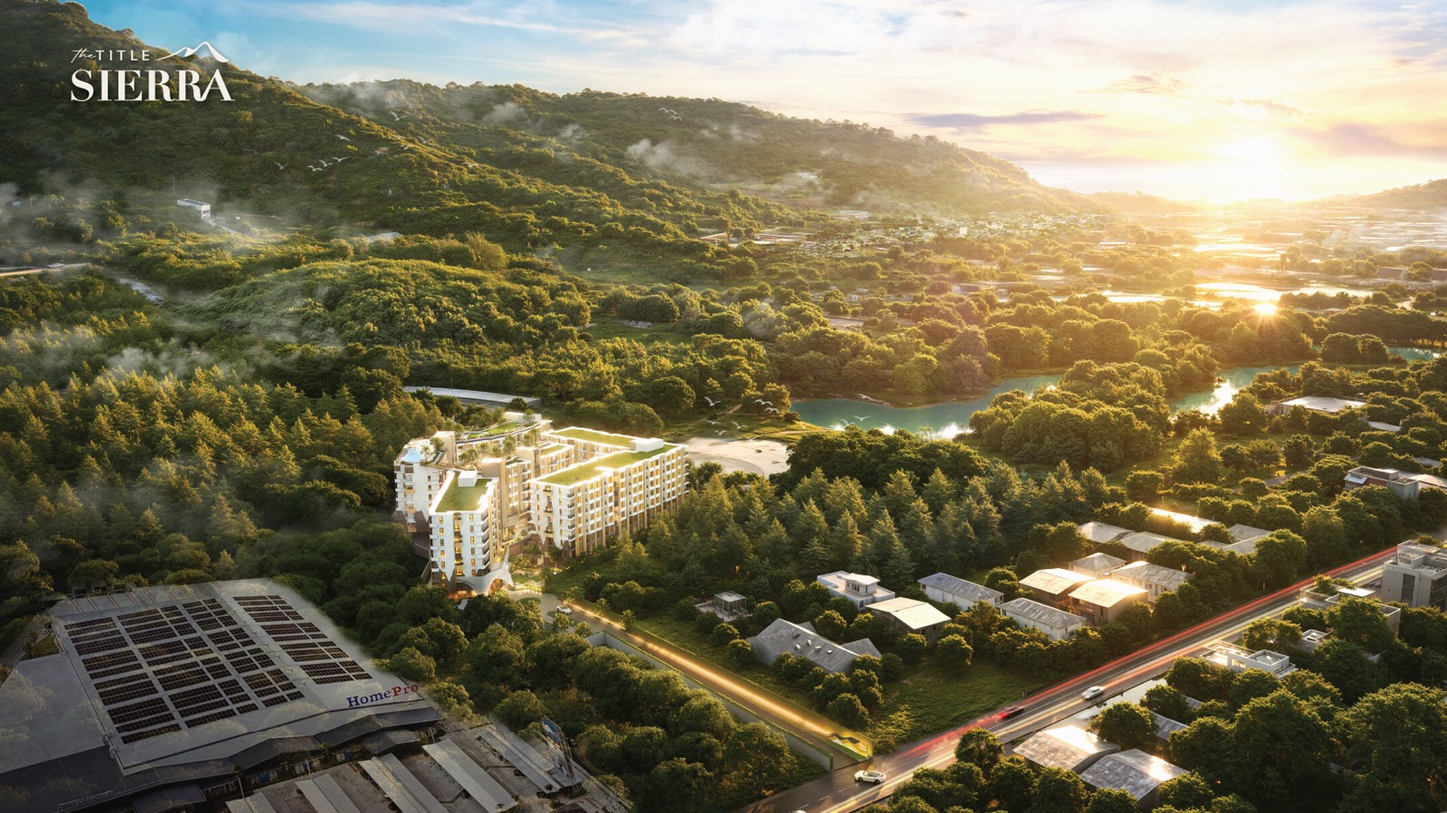
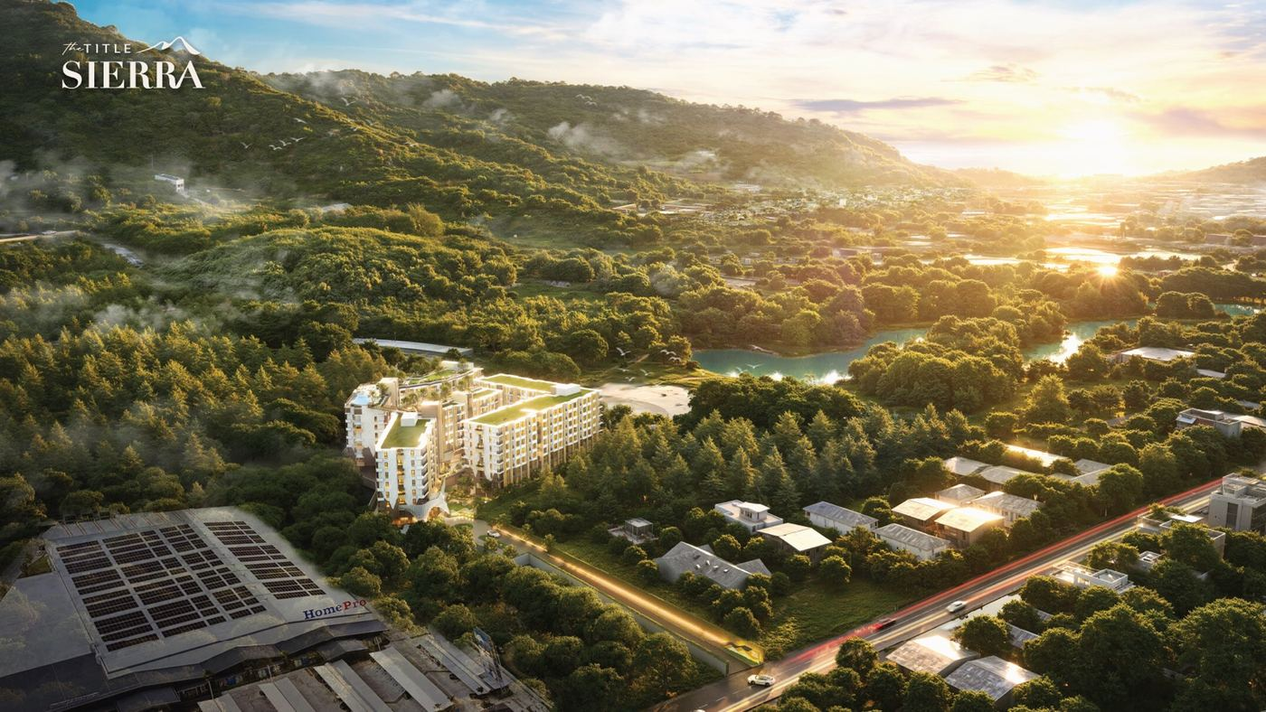
Каталог тянул 9 МБ фотографий — теперь около мегабайта
Страница покупки грузила 23 снимка по 300-500 КБ в полном разрешении, хотя
карточка показывает 290 пикселей. На телефоне это выглядело как зависшая
страница.

Снимки пережаты до 1400px (было до 1600) — 9 МБ стали 4.7 МБ без потери вида.
Для карточек сделаны отдельные превью 620px по 46 КБ: каталог грузит их,
полный снимок открывается только в окне объекта. Добавлена отложенная
загрузка — то, что ниже экрана, не грузится сразу.

Оригиналы сохранены в ~/plp_backups.

Claude-Session: https://claude.ai/code/session_0174bDekhXGd7Ri82V1QKYTm

Changed region(s): [[0.43, 0.5787, 0.4607, 0.6091]]

diff --git a/add-property.html b/add-property.html
@@ -1865,9 +1865,16 @@ function statusBadge(s){return '<span class="stbadge st-'+s+'">'+t('st.'+s)+'</s
 /* 30.08 канон №38: «Готов» берём из данных (stage='Ready'), а НЕ считаем из даты сдачи.
    Расчёт по дате помечал готовыми объекты, которые по данным ещё строятся. */
 function propStatus(p){return (p.status==='available'&&p.ready===true)?'ready':p.status;}
-function thumbDiv(p,cls){return '<div class="thumb '+(p.grad||'g1')+' '+(cls||'')+'">'+t('ph.object')+picPhoto(p).replace('pic-photo','thumb-photo')+'</div>';}
+function thumbDiv(p,cls){return '<div class="thumb '+(p.grad||'g1')+' '+(cls||'')+'">'+t('ph.object')+picPhoto(p,false).replace('pic-photo','thumb-photo')+'</div>';}
 /* реальное фото объекта поверх градиента; onerror → откат на градиент */
-function picPhoto(p){return p&&p.img?'<img class="pic-photo" src="'+p.img+'" alt="'+((p.title||'').replace(/"/g,'&quot;'))+'" onerror="this.remove()">':'';}
+/* В карточке грузим лёгкое превью (~46 КБ), полный снимок — только на странице
+   объекта и в окне. Раньше каталог тянул 9 МБ и открывался вечность. */
+function picPhoto(p,full){
+  if(!p||!p.img) return '';
+  var src = full ? p.img : p.img.replace('img/','img/thumb/');
+  return '<img class="pic-photo" src="'+src+'" loading="lazy" decoding="async" alt="'+
+    ((p.title||'').replace(/"/g,'&quot;'))+'" onerror="this.remove()">';
+}
 
 /* ===== SALE RENDER ===== */
 /* Цена в карточке — минимальная из прайса застройщика на дату сверки.
@@ -2251,7 +2258,7 @@ function openProp(pid){
   var p=PL.byId[pid];if(!p||p.soon)return;currentPid=pid;
   var img=document.getElementById('pmImg');
   img.className='pm-img '+(p.grad||'g1');
-  img.innerHTML=picPhoto(p).replace('pic-photo','pm-photo')+'<span>'+t('ph.object')+'</span><div class="pm-badges"><span class="pm-tag">'+loc(p.loc)+'</span><span class="pm-roi">'+(p.funnel==='sale'?(p.roi!=null?('ROI '+roiRange(p)):t('u.calc')):t('book.title'))+'</span></div>';
+  img.innerHTML=picPhoto(p,true).replace('pic-photo','pm-photo')+'<span>'+t('ph.object')+'</span><div class="pm-badges"><span class="pm-tag">'+loc(p.loc)+'</span><span class="pm-roi">'+(p.funnel==='sale'?(p.roi!=null?('ROI '+roiRange(p)):t('u.calc')):t('book.title'))+'</span></div>';
   document.getElementById('pmTitle').textContent=p.title;
   document.getElementById('pmDesc').textContent=loc(p.desc);
   var _pid=document.getElementById('pmPid');

diff --git a/buy.html b/buy.html
@@ -1760,9 +1760,16 @@ function statusBadge(s){return '<span class="stbadge st-'+s+'">'+t('st.'+s)+'</s
 /* 30.08 канон №38: «Готов» берём из данных (stage='Ready'), а НЕ считаем из даты сдачи.
    Расчёт по дате помечал готовыми объекты, которые по данным ещё строятся. */
 function propStatus(p){return (p.status==='available'&&p.ready===true)?'ready':p.status;}
-function thumbDiv(p,cls){return '<div class="thumb '+(p.grad||'g1')+' '+(cls||'')+'">'+t('ph.object')+picPhoto(p).replace('pic-photo','thumb-photo')+'</div>';}
+function thumbDiv(p,cls){return '<div class="thumb '+(p.grad||'g1')+' '+(cls||'')+'">'+t('ph.object')+picPhoto(p,false).replace('pic-photo','thumb-photo')+'</div>';}
 /* реальное фото объекта поверх градиента; onerror → откат на градиент */
-function picPhoto(p){return p&&p.img?'<img class="pic-photo" src="'+p.img+'" alt="'+((p.title||'').replace(/"/g,'&quot;'))+'" onerror="this.remove()">':'';}
+/* В карточке грузим лёгкое превью (~46 КБ), полный снимок — только на странице
+   объекта и в окне. Раньше каталог тянул 9 МБ и открывался вечность. */
+function picPhoto(p,full){
+  if(!p||!p.img) return '';
+  var src = full ? p.img : p.img.replace('img/','img/thumb/');
+  return '<img class="pic-photo" src="'+src+'" loading="lazy" decoding="async" alt="'+
+    ((p.title||'').replace(/"/g,'&quot;'))+'" onerror="this.remove()">';
+}
 
 /* ===== SALE RENDER ===== */
 /* Цена в карточке — минимальная из прайса застройщика на дату сверки.
@@ -2146,7 +2153,7 @@ function openProp(pid){
   var p=PL.byId[pid];if(!p||p.soon)return;currentPid=pid;
   var img=document.getElementById('pmImg');
   img.className='pm-img '+(p.grad||'g1');
-  img.innerHTML=picPhoto(p).replace('pic-photo','pm-photo')+'<span>'+t('ph.object')+'</span><div class="pm-badges"><span class="pm-tag">'+loc(p.loc)+'</span><span class="pm-roi">'+(p.funnel==='sale'?(p.roi!=null?('ROI '+roiRange(p)):t('u.calc')):t('book.title'))+'</span></div>';
+  img.innerHTML=picPhoto(p,true).replace('pic-photo','pm-photo')+'<span>'+t('ph.object')+'</span><div class="pm-badges"><span class="pm-tag">'+loc(p.loc)+'</span><span class="pm-roi">'+(p.funnel==='sale'?(p.roi!=null?('ROI '+roiRange(p)):t('u.calc')):t('book.title'))+'</span></div>';
   document.getElementById('pmTitle').textContent=p.title;
   document.getElementById('pmDesc').textContent=loc(p.desc);
   var _pid=document.getElementById('pmPid');

diff --git a/districts/bang-tao.html b/districts/bang-tao.html
@@ -1686,9 +1686,16 @@ function statusBadge(s){return '<span class="stbadge st-'+s+'">'+t('st.'+s)+'</s
 /* 30.08 канон №38: «Готов» берём из данных (stage='Ready'), а НЕ считаем из даты сдачи.
    Расчёт по дате помечал готовыми объекты, которые по данным ещё строятся. */
 function propStatus(p){return (p.status==='available'&&p.ready===true)?'ready':p.status;}
-function thumbDiv(p,cls){return '<div class="thumb '+(p.grad||'g1')+' '+(cls||'')+'">'+t('ph.object')+picPhoto(p).replace('pic-photo','thumb-photo')+'</div>';}
+function thumbDiv(p,cls){return '<div class="thumb '+(p.grad||'g1')+' '+(cls||'')+'">'+t('ph.object')+picPhoto(p,false).replace('pic-photo','thumb-photo')+'</div>';}
 /* реальное фото объекта поверх градиента; onerror → откат на градиент */
-function picPhoto(p){return p&&p.img?'<img class="pic-photo" src="'+p.img+'" alt="'+((p.title||'').replace(/"/g,'&quot;'))+'" onerror="this.remove()">':'';}
+/* В карточке грузим лёгкое превью (~46 КБ), полный снимок — только на странице
+   объекта и в окне. Раньше каталог тянул 9 МБ и открывался вечность. */
+function picPhoto(p,full){
+  if(!p||!p.img) return '';
+  var src = full ? p.img : p.img.replace('img/','img/thumb/');
+  return '<img class="pic-photo" src="'+src+'" loading="lazy" decoding="async" alt="'+
+    ((p.title||'').replace(/"/g,'&quot;'))+'" onerror="this.remove()">';
+}
 
 /* ===== SALE RENDER ===== */
 /* Цена в карточке — минимальная из прайса застройщика на дату сверки.
@@ -2072,7 +2079,7 @@ function openProp(pid){
   var p=PL.byId[pid];if(!p||p.soon)return;currentPid=pid;
   var img=document.getElementById('pmImg');
   img.className='pm-img '+(p.grad||'g1');
-  img.innerHTML=picPhoto(p).replace('pic-photo','pm-photo')+'<span>'+t('ph.object')+'</span><div class="pm-badges"><span class="pm-tag">'+loc(p.loc)+'</span><span class="pm-roi">'+(p.funnel==='sale'?(p.roi!=null?('ROI '+roiRange(p)):t('u.calc')):t('book.title'))+'</span></div>';
+  img.innerHTML=picPhoto(p,true).replace('pic-photo','pm-photo')+'<span>'+t('ph.object')+'</span><div class="pm-badges"><span class="pm-tag">'+loc(p.loc)+'</span><span class="pm-roi">'+(p.funnel==='sale'?(p.roi!=null?('ROI '+roiRange(p)):t('u.calc')):t('book.title'))+'</span></div>';
   document.getElementById('pmTitle').textContent=p.title;
   document.getElementById('pmDesc').textContent=loc(p.desc);
   var _pid=document.getElementById('pmPid');

diff --git a/districts/kamala.html b/districts/kamala.html
@@ -1686,9 +1686,16 @@ function statusBadge(s){return '<span class="stbadge st-'+s+'">'+t('st.'+s)+'</s
 /* 30.08 канон №38: «Готов» берём из данных (stage='Ready'), а НЕ считаем из даты сдачи.
    Расчёт по дате помечал готовыми объекты, которые по данным ещё строятся. */
 function propStatus(p){return (p.status==='available'&&p.ready===true)?'ready':p.status;}
-function thumbDiv(p,cls){return '<div class="thumb '+(p.grad||'g1')+' '+(cls||'')+'">'+t('ph.object')+picPhoto(p).replace('pic-photo','thumb-photo')+'</div>';}
+function thumbDiv(p,cls){return '<div class="thumb '+(p.grad||'g1')+' '+(cls||'')+'">'+t('ph.object')+picPhoto(p,false).replace('pic-photo','thumb-photo')+'</div>';}
 /* реальное фото объекта поверх градиента; onerror → откат на градиент */
-function picPhoto(p){return p&&p.img?'<img class="pic-photo" src="'+p.img+'" alt="'+((p.title||'').replace(/"/g,'&quot;'))+'" onerror="this.remove()">':'';}
+/* В карточке грузим лёгкое превью (~46 КБ), полный снимок — только на странице
+   объекта и в окне. Раньше каталог тянул 9 МБ и открывался вечность. */
+function picPhoto(p,full){
+  if(!p||!p.img) return '';
+  var src = full ? p.img : p.img.replace('img/','img/thumb/');
+  return '<img class="pic-photo" src="'+src+'" loading="lazy" decoding="async" alt="'+
+    ((p.title||'').replace(/"/g,'&quot;'))+'" onerror="this.remove()">';
+}
 
 /* ===== SALE RENDER ===== */
 /* Цена в карточке — минимальная из прайса застройщика на дату сверки.
@@ -2072,7 +2079,7 @@ function openProp(pid){
   var p=PL.byId[pid];if(!p||p.soon)return;currentPid=pid;
   var img=document.getElementById('pmImg');
   img.className='pm-img '+(p.grad||'g1');
-  img.innerHTML=picPhoto(p).replace('pic-photo','pm-photo')+'<span>'+t('ph.object')+'</span><div class="pm-badges"><span class="pm-tag">'+loc(p.loc)+'</span><span class="pm-roi">'+(p.funnel==='sale'?(p.roi!=null?('ROI '+roiRange(p)):t('u.calc')):t('book.title'))+'</span></div>';
+  img.innerHTML=picPhoto(p,true).replace('pic-photo','pm-photo')+'<span>'+t('ph.object')+'</span><div class="pm-badges"><span class="pm-tag">'+loc(p.loc)+'</span><span class="pm-roi">'+(p.funnel==='sale'?(p.roi!=null?('ROI '+roiRange(p)):t('u.calc')):t('book.title'))+'</span></div>';
   document.getElementById('pmTitle').textContent=p.title;
   document.getElementById('pmDesc').textContent=loc(p.desc);
   var _pid=document.getElementById('pmPid');

diff --git a/districts/kata.html b/districts/kata.html
@@ -1674,9 +1674,16 @@ function statusBadge(s){return '<span class="stbadge st-'+s+'">'+t('st.'+s)+'</s
 /* 30.08 канон №38: «Готов» берём из данных (stage='Ready'), а НЕ считаем из даты сдачи.
    Расчёт по дате помечал готовыми объекты, которые по данным ещё строятся. */
 function propStatus(p){return (p.status==='available'&&p.ready===true)?'ready':p.status;}
-function thumbDiv(p,cls){return '<div class="thumb '+(p.grad||'g1')+' '+(cls||'')+'">'+t('ph.object')+picPhoto(p).replace('pic-photo','thumb-photo')+'</div>';}
+function thumbDiv(p,cls){return '<div class="thumb '+(p.grad||'g1')+' '+(cls||'')+'">'+t('ph.object')+picPhoto(p,false).replace('pic-photo','thumb-photo')+'</div>';}
 /* реальное фото объекта поверх градиента; onerror → откат на градиент */
-function picPhoto(p){return p&&p.img?'<img class="pic-photo" src="'+p.img+'" alt="'+((p.title||'').replace(/"/g,'&quot;'))+'" onerror="this.remove()">':'';}
+/* В карточке грузим лёгкое превью (~46 КБ), полный снимок — только на странице
+   объекта и в окне. Раньше каталог тянул 9 МБ и открывался вечность. */
+function picPhoto(p,full){
+  if(!p||!p.img) return '';
+  var src = full ? p.img : p.img.replace('img/','img/thumb/');
+  return '<img class="pic-photo" src="'+src+'" loading="lazy" decoding="async" alt="'+
+    ((p.title||'').replace(/"/g,'&quot;'))+'" onerror="this.remove()">';
+}
 
 /* ===== SALE RENDER ===== */
 /* Цена в карточке — минимальная из прайса застройщика на дату сверки.
@@ -2060,7 +2067,7 @@ function openProp(pid){
   var p=PL.byId[pid];if(!p||p.soon)return;currentPid=pid;
   var img=document.getElementById('pmImg');
   img.className='pm-img '+(p.grad||'g1');
-  img.innerHTML=picPhoto(p).replace('pic-photo','pm-photo')+'<span>'+t('ph.object')+'</span><div class="pm-badges"><span class="pm-tag">'+loc(p.loc)+'</span><span class="pm-roi">'+(p.funnel==='sale'?(p.roi!=null?('ROI '+roiRange(p)):t('u.calc')):t('book.title'))+'</span></div>';
+  img.innerHTML=picPhoto(p,true).replace('pic-photo','pm-photo')+'<span>'+t('ph.object')+'</span><div class="pm-badges"><span class="pm-tag">'+loc(p.loc)+'</span><span class="pm-roi">'+(p.funnel==='sale'?(p.roi!=null?('ROI '+roiRange(p)):t('u.calc')):t('book.title'))+'</span></div>';
   document.getElementById('pmTitle').textContent=p.title;
   document.getElementById('pmDesc').textContent=loc(p.desc);
   var _pid=document.getElementById('pmPid');

diff --git a/districts/koh-kaew.html b/districts/koh-kaew.html
@@ -1674,9 +1674,16 @@ function statusBadge(s){return '<span class="stbadge st-'+s+'">'+t('st.'+s)+'</s
 /* 30.08 канон №38: «Готов» берём из данных (stage='Ready'), а НЕ считаем из даты сдачи.
    Расчёт по дате помечал готовыми объекты, которые по данным ещё строятся. */
 function propStatus(p){return (p.status==='available'&&p.ready===true)?'ready':p.status;}
-function thumbDiv(p,cls){return '<div class="thumb '+(p.grad||'g1')+' '+(cls||'')+'">'+t('ph.object')+picPhoto(p).replace('pic-photo','thumb-photo')+'</div>';}
+function thumbDiv(p,cls){return '<div class="thumb '+(p.grad||'g1')+' '+(cls||'')+'">'+t('ph.object')+picPhoto(p,false).replace('pic-photo','thumb-photo')+'</div>';}
 /* реальное фото объекта поверх градиента; onerror → откат на градиент */
-function picPhoto(p){return p&&p.img?'<img class="pic-photo" src="'+p.img+'" alt="'+((p.title||'').replace(/"/g,'&quot;'))+'" onerror="this.remove()">':'';}
+/* В карточке грузим лёгкое превью (~46 КБ), полный снимок — только на странице
+   объекта и в окне. Раньше каталог тянул 9 МБ и открывался вечность. */
+function picPhoto(p,full){
+  if(!p||!p.img) return '';
+  var src = full ? p.img : p.img.replace('img/','img/thumb/');
+  return '<img class="pic-photo" src="'+src+'" loading="lazy" decoding="async" alt="'+
+    ((p.title||'').replace(/"/g,'&quot;'))+'" onerror="this.remove()">';
+}
 
 /* ===== SALE RENDER ===== */
 /* Цена в карточке — минимальная из прайса застройщика на дату сверки.
@@ -2060,7 +2067,7 @@ function openProp(pid){
   var p=PL.byId[pid];if(!p||p.soon)return;currentPid=pid;
   var img=document.getElementById('pmImg');
   img.className='pm-img '+(p.grad||'g1');
-  img.innerHTML=picPhoto(p).replace('pic-photo','pm-photo')+'<span>'+t('ph.object')+'</span><div class="pm-badges"><span class="pm-tag">'+loc(p.loc)+'</span><span class="pm-roi">'+(p.funnel==='sale'?(p.roi!=null?('ROI '+roiRange(p)):t('u.calc')):t('book.title'))+'</span></div>';
+  img.innerHTML=picPhoto(p,true).replace('pic-photo','pm-photo')+'<span>'+t('ph.object')+'</span><div class="pm-badges"><span class="pm-tag">'+loc(p.loc)+'</span><span class="pm-roi">'+(p.funnel==='sale'?(p.roi!=null?('ROI '+roiRange(p)):t('u.calc')):t('book.title'))+'</span></div>';
   document.getElementById('pmTitle').textContent=p.title;
   document.getElementById('pmDesc').textContent=loc(p.desc);
   var _pid=document.getElementById('pmPid');

diff --git a/districts/layan.html b/districts/layan.html
@@ -1686,9 +1686,16 @@ function statusBadge(s){return '<span class="stbadge st-'+s+'">'+t('st.'+s)+'</s
 /* 30.08 канон №38: «Готов» берём из данных (stage='Ready'), а НЕ считаем из даты сдачи.
    Расчёт по дате помечал готовыми объекты, которые по данным ещё строятся. */
 function propStatus(p){return (p.status==='available'&&p.ready===true)?'ready':p.status;}
-function thumbDiv(p,cls){return '<div class="thumb '+(p.grad||'g1')+' '+(cls||'')+'">'+t('ph.object')+picPhoto(p).replace('pic-photo','thumb-photo')+'</div>';}
+function thumbDiv(p,cls){return '<div class="thumb '+(p.grad||'g1')+' '+(cls||'')+'">'+t('ph.object')+picPhoto(p,false).replace('pic-photo','thumb-photo')+'</div>';}
 /* реальное фото объекта поверх градиента; onerror → откат на градиент */
-function picPhoto(p){return p&&p.img?'<img class="pic-photo" src="'+p.img+'" alt="'+((p.title||'').replace(/"/g,'&quot;'))+'" onerror="this.remove()">':'';}
+/* В карточке грузим лёгкое превью (~46 КБ), полный снимок — только на странице
+   объекта и в окне. Раньше каталог тянул 9 МБ и открывался вечность. */
+function picPhoto(p,full){
+  if(!p||!p.img) return '';
+  var src = full ? p.img : p.img.replace('img/','img/thumb/');
+  return '<img class="pic-photo" src="'+src+'" loading="lazy" decoding="async" alt="'+
+    ((p.title||'').replace(/"/g,'&quot;'))+'" onerror="this.remove()">';
+}
 
 /* ===== SALE RENDER ===== */
 /* Цена в карточке — минимальная из прайса застройщика на дату сверки.
@@ -2072,7 +2079,7 @@ function openProp(pid){
   var p=PL.byId[pid];if(!p||p.soon)return;currentPid=pid;
   var img=document.getElementById('pmImg');
   img.className='pm-img '+(p.grad||'g1');
-  img.innerHTML=picPhoto(p).replace('pic-photo','pm-photo')+'<span>'+t('ph.object')+'</span><div class="pm-badges"><span class="pm-tag">'+loc(p.loc)+'</span><span class="pm-roi">'+(p.funnel==='sale'?(p.roi!=null?('ROI '+roiRange(p)):t('u.calc')):t('book.title'))+'</span></div>';
+  img.innerHTML=picPhoto(p,true).replace('pic-photo','pm-photo')+'<span>'+t('ph.object')+'</span><div class="pm-badges"><span class="pm-tag">'+loc(p.loc)+'</span><span class="pm-roi">'+(p.funnel==='sale'?(p.roi!=null?('ROI '+roiRange(p)):t('u.calc')):t('book.title'))+'</span></div>';
   document.getElementById('pmTitle').textContent=p.title;
   document.getElementById('pmDesc').textContent=loc(p.desc);
   var _pid=document.getElementById('pmPid');

diff --git a/districts/nai-yang.html b/districts/nai-yang.html
@@ -1674,9 +1674,16 @@ function statusBadge(s){return '<span class="stbadge st-'+s+'">'+t('st.'+s)+'</s
 /* 30.08 канон №38: «Готов» берём из данных (stage='Ready'), а НЕ считаем из даты сдачи.
    Расчёт по дате помечал готовыми объекты, которые по данным ещё строятся. */
 function propStatus(p){return (p.status==='available'&&p.ready===true)?'ready':p.status;}
-function thumbDiv(p,cls){return '<div class="thumb '+(p.grad||'g1')+' '+(cls||'')+'">'+t('ph.object')+picPhoto(p).replace('pic-photo','thumb-photo')+'</div>';}
+function thumbDiv(p,cls){return '<div class="thumb '+(p.grad||'g1')+' '+(cls||'')+'">'+t('ph.object')+picPhoto(p,false).replace('pic-photo','thumb-photo')+'</div>';}
 /* реальное фото объекта поверх градиента; onerror → откат на градиент */
-function picPhoto(p){return p&&p.img?'<img class="pic-photo" src="'+p.img+'" alt="'+((p.title||'').replace(/"/g,'&quot;'))+'" onerror="this.remove()">':'';}
+/* В карточке грузим лёгкое превью (~46 КБ), полный снимок — только на странице
+   объекта и в окне. Раньше каталог тянул 9 МБ и открывался вечность. */
+function picPhoto(p,full){
+  if(!p||!p.img) return '';
+  var src = full ? p.img : p.img.replace('img/','img/thumb/');
+  return '<img class="pic-photo" src="'+src+'" loading="lazy" decoding="async" alt="'+
+    ((p.title||'').replace(/"/g,'&quot;'))+'" onerror="this.remove()">';
+}
 
 /* ===== SALE RENDER ===== */
 /* Цена в карточке — минимальная из прайса застройщика на дату сверки.
@@ -2060,7 +2067,7 @@ function openProp(pid){
   var p=PL.byId[pid];if(!p||p.soon)return;currentPid=pid;
   var img=document.getElementById('pmImg');
   img.className='pm-img '+(p.grad||'g1');
-  img.innerHTML=picPhoto(p).replace('pic-photo','pm-photo')+'<span>'+t('ph.object')+'</span><div class="pm-badges"><span class="pm-tag">'+loc(p.loc)+'</span><span class="pm-roi">'+(p.funnel==='sale'?(p.roi!=null?('ROI '+roiRange(p)):t('u.calc')):t('book.title'))+'</span></div>';
+  img.innerHTML=picPhoto(p,true).replace('pic-photo','pm-photo')+'<span>'+t('ph.object')+'</span><div class="pm-badges"><span class="pm-tag">'+loc(p.loc)+'</span><span class="pm-roi">'+(p.funnel==='sale'?(p.roi!=null?('ROI '+roiRange(p)):t('u.calc')):t('book.title'))+'</span></div>';
   document.getElementById('pmTitle').textContent=p.title;
   document.getElementById('pmDesc').textContent=loc(p.desc);
   var _pid=document.getElementById('pmPid');

diff --git a/districts/rawai.html b/districts/rawai.html
@@ -1686,9 +1686,16 @@ function statusBadge(s){return '<span class="stbadge st-'+s+'">'+t('st.'+s)+'</s
 /* 30.08 канон №38: «Готов» берём из данных (stage='Ready'), а НЕ считаем из даты сдачи.
    Расчёт по дате помечал готовыми объекты, которые по данным ещё строятся. */
 function propStatus(p){return (p.status==='available'&&p.ready===true)?'ready':p.status;}
-function thumbDiv(p,cls){return '<div class="thumb '+(p.grad||'g1')+' '+(cls||'')+'">'+t('ph.object')+picPhoto(p).replace('pic-photo','thumb-photo')+'</div>';}
+function thumbDiv(p,cls){return '<div class="thumb '+(p.grad||'g1')+' '+(cls||'')+'">'+t('ph.object')+picPhoto(p,false).replace('pic-photo','thumb-photo')+'</div>';}
 /* реальное фото объекта поверх градиента; onerror → откат на градиент */
-function picPhoto(p){return p&&p.img?'<img class="pic-photo" src="'+p.img+'" alt="'+((p.title||'').replace(/"/g,'&quot;'))+'" onerror="this.remove()">':'';}
+/* В карточке грузим лёгкое превью (~46 КБ), полный снимок — только на странице
+   объекта и в окне. Раньше каталог тянул 9 МБ и открывался вечность. */
+function picPhoto(p,full){
+  if(!p||!p.img) return '';
+  var src = full ? p.img : p.img.replace('img/','img/thumb/');
+  return '<img class="pic-photo" src="'+src+'" loading="lazy" decoding="async" alt="'+
+    ((p.title||'').replace(/"/g,'&quot;'))+'" onerror="this.remove()">';
+}
 
 /* ===== SALE RENDER ===== */
 /* Цена в карточке — минимальная из прайса застройщика на дату сверки.
@@ -2072,7 +2079,7 @@ function openProp(pid){
   var p=PL.byId[pid];if(!p||p.soon)return;currentPid=pid;
   var img=document.getElementById('pmImg');
   img.className='pm-img '+(p.grad||'g1');
-  img.innerHTML=picPhoto(p).replace('pic-photo','pm-photo')+'<span>'+t('ph.object')+'</span><div class="pm-badges"><span class="pm-tag">'+loc(p.loc)+'</span><span class="pm-roi">'+(p.funnel==='sale'?(p.roi!=null?('ROI '+roiRange(p)):t('u.calc')):t('book.title'))+'</span></div>';
+  img.innerHTML=picPhoto(p,true).replace('pic-photo','pm-photo')+'<span>'+t('ph.object')+'</span><div class="pm-badges"><span class="pm-tag">'+loc(p.loc)+'</span><span class="pm-roi">'+(p.funnel==='sale'?(p.roi!=null?('ROI '+roiRange(p)):t('u.calc')):t('book.title'))+'</span></div>';
   document.getElementById('pmTitle').textContent=p.title;
   document.getElementById('pmDesc').textContent=loc(p.desc);
   var _pid=document.getElementById('pmPid');

diff --git a/districts/surin.html b/districts/surin.html
@@ -1686,9 +1686,16 @@ function statusBadge(s){return '<span class="stbadge st-'+s+'">'+t('st.'+s)+'</s
 /* 30.08 канон №38: «Готов» берём из данных (stage='Ready'), а НЕ считаем из даты сдачи.
    Расчёт по дате помечал готовыми объекты, которые по данным ещё строятся. */
 function propStatus(p){return (p.status==='available'&&p.ready===true)?'ready':p.status;}
-function thumbDiv(p,cls){return '<div class="thumb '+(p.grad||'g1')+' '+(cls||'')+'">'+t('ph.object')+picPhoto(p).replace('pic-photo','thumb-photo')+'</div>';}
+function thumbDiv(p,cls){return '<div class="thumb '+(p.grad||'g1')+' '+(cls||'')+'">'+t('ph.object')+picPhoto(p,false).replace('pic-photo','thumb-photo')+'</div>';}
 /* реальное фото объекта поверх градиента; onerror → откат на градиент */
-function picPhoto(p){return p&&p.img?'<img class="pic-photo" src="'+p.img+'" alt="'+((p.title||'').replace(/"/g,'&quot;'))+'" onerror="this.remove()">':'';}
+/* В карточке грузим лёгкое превью (~46 КБ), полный снимок — только на странице
+   объекта и в окне. Раньше каталог тянул 9 МБ и открывался вечность. */
+function picPhoto(p,full){
+  if(!p||!p.img) return '';
+  var src = full ? p.img : p.img.replace('img/','img/thumb/');
+  return '<img class="pic-photo" src="'+src+'" loading="lazy" decoding="async" alt="'+
+    ((p.title||'').replace(/"/g,'&quot;'))+'" onerror="this.remove()">';
+}
 
 /* ===== SALE RENDER ===== */
 /* Цена в карточке — минимальная из прайса застройщика на дату сверки.
@@ -2072,7 +2079,7 @@ function openProp(pid){
   var p=PL.byId[pid];if(!p||p.soon)return;currentPid=pid;
   var img=document.getElementById('pmImg');
   img.className='pm-img '+(p.grad||'g1');
-  img.innerHTML=picPhoto(p).replace('pic-photo','pm-photo')+'<span>'+t('ph.object')+'</span><div class="pm-badges"><span class="pm-tag">'+loc(p.loc)+'</span><span class="pm-roi">'+(p.funnel==='sale'?(p.roi!=null?('ROI '+roiRange(p)):t('u.calc')):t('book.title'))+'</span></div>';
+  img.innerHTML=picPhoto(p,true).replace('pic-photo','pm-photo')+'<span>'+t('ph.object')+'</span><div class="pm-badges"><span class="pm-tag">'+loc(p.loc)+'</span><span class="pm-roi">'+(p.funnel==='sale'?(p.roi!=null?('ROI '+roiRange(p)):t('u.calc')):t('book.title'))+'</span></div>';
   document.getElementById('pmTitle').textContent=p.title;
   document.getElementById('pmDesc').textContent=loc(p.desc);
   var _pid=document.getElementById('pmPid');

diff --git a/guide/inostranec-mozhet-kupit.html b/guide/inostranec-mozhet-kupit.html
@@ -1686,9 +1686,16 @@ function statusBadge(s){return '<span class="stbadge st-'+s+'">'+t('st.'+s)+'</s
 /* 30.08 канон №38: «Готов» берём из данных (stage='Ready'), а НЕ считаем из даты сдачи.
    Расчёт по дате помечал готовыми объекты, которые по данным ещё строятся. */
 function propStatus(p){return (p.status==='available'&&p.ready===true)?'ready':p.status;}
-function thumbDiv(p,cls){return '<div class="thumb '+(p.grad||'g1')+' '+(cls||'')+'">'+t('ph.object')+picPhoto(p).replace('pic-photo','thumb-photo')+'</div>';}
+function thumbDiv(p,cls){return '<div class="thumb '+(p.grad||'g1')+' '+(cls||'')+'">'+t('ph.object')+picPhoto(p,false).replace('pic-photo','thumb-photo')+'</div>';}
 /* реальное фото объекта поверх градиента; onerror → откат на градиент */
-function picPhoto(p){return p&&p.img?'<img class="pic-photo" src="'+p.img+'" alt="'+((p.title||'').replace(/"/g,'&quot;'))+'" onerror="this.remove()">':'';}
+/* В карточке грузим лёгкое превью (~46 КБ), полный снимок — только на странице
+   объекта и в окне. Раньше каталог тянул 9 МБ и открывался вечность. */
+function picPhoto(p,full){
+  if(!p||!p.img) return '';
+  var src = full ? p.img : p.img.replace('img/','img/thumb/');
+  return '<img class="pic-photo" src="'+src+'" loading="lazy" decoding="async" alt="'+
+    ((p.title||'').replace(/"/g,'&quot;'))+'" onerror="this.remove()">';
+}
 
 /* ===== SALE RENDER ===== */
 /* Цена в карточке — минимальная из прайса застройщика на дату сверки.
@@ -2072,7 +2079,7 @@ function openProp(pid){
   var p=PL.byId[pid];if(!p||p.soon)return;currentPid=pid;
   var img=document.getElementById('pmImg');
   img.className='pm-img '+(p.grad||'g1');
-  img.innerHTML=picPhoto(p).replace('pic-photo','pm-photo')+'<span>'+t('ph.object')+'</span><div class="pm-badges"><span class="pm-tag">'+loc(p.loc)+'</span><span class="pm-roi">'+(p.funnel==='sale'?(p.roi!=null?('ROI '+roiRange(p)):t('u.calc')):t('book.title'))+'</span></div>';
+  img.innerHTML=picPhoto(p,true).replace('pic-photo','pm-photo')+'<span>'+t('ph.object')+'</span><div class="pm-badges"><span class="pm-tag">'+loc(p.loc)+'</span><span class="pm-roi">'+(p.funnel==='sale'?(p.roi!=null?('ROI '+roiRange(p)):t('u.calc')):t('book.title'))+'</span></div>';
   document.getElementById('pmTitle').textContent=p.title;
   document.getElementById('pmDesc').textContent=loc(p.desc);
   var _pid=document.getElementById('pmPid');

diff --git a/guide/kupit-udalenno.html b/guide/kupit-udalenno.html
@@ -1686,9 +1686,16 @@ function statusBadge(s){return '<span class="stbadge st-'+s+'">'+t('st.'+s)+'</s
 /* 30.08 канон №38: «Готов» берём из данных (stage='Ready'), а НЕ считаем из даты сдачи.
    Расчёт по дате помечал готовыми объекты, которые по данным ещё строятся. */
 function propStatus(p){return (p.status==='available'&&p.ready===true)?'ready':p.status;}
-function thumbDiv(p,cls){return '<div class="thumb '+(p.grad||'g1')+' '+(cls||'')+'">'+t('ph.object')+picPhoto(p).replace('pic-photo','thumb-photo')+'</div>';}
+function thumbDiv(p,cls){return '<div class="thumb '+(p.grad||'g1')+' '+(cls||'')+'">'+t('ph.object')+picPhoto(p,false).replace('pic-photo','thumb-photo')+'</div>';}
 /* реальное фото объекта поверх градиента; onerror → откат на градиент */
-function picPhoto(p){return p&&p.img?'<img class="pic-photo" src="'+p.img+'" alt="'+((p.title||'').replace(/"/g,'&quot;'))+'" onerror="this.remove()">':'';}
+/* В карточке грузим лёгкое превью (~46 КБ), полный снимок — только на странице
+   объекта и в окне. Раньше каталог тянул 9 МБ и открывался вечность. */
+function picPhoto(p,full){
+  if(!p||!p.img) return '';
+  var src = full ? p.img : p.img.replace('img/','img/thumb/');
+  return '<img class="pic-photo" src="'+src+'" loading="lazy" decoding="async" alt="'+
+    ((p.title||'').replace(/"/g,'&quot;'))+'" onerror="this.remove()">';
+}
 
 /* ===== SALE RENDER ===== */
 /* Цена в карточке — минимальная из прайса застройщика на дату сверки.
@@ -2072,7 +2079,7 @@ function openProp(pid){
   var p=PL.byId[pid];if(!p||p.soon)return;currentPid=pid;
   var img=document.getElementById('pmImg');
   img.className='pm-img '+(p.grad||'g1');
-  img.innerHTML=picPhoto(p).replace('pic-photo','pm-photo')+'<span>'+t('ph.object')+'</span><div class="pm-badges"><span class="pm-tag">'+loc(p.loc)+'</span><span class="pm-roi">'+(p.funnel==='sale'?(p.roi!=null?('ROI '+roiRange(p)):t('u.calc')):t('book.title'))+'</span></div>';
+  img.innerHTML=picPhoto(p,true).replace('pic-photo','pm-photo')+'<span>'+t('ph.object')+'</span><div class="pm-badges"><span class="pm-tag">'+loc(p.loc)+'</span><span class="pm-roi">'+(p.funnel==='sale'?(p.roi!=null?('ROI '+roiRange(p)):t('u.calc')):t('book.title'))+'</span></div>';
   document.getElementById('pmTitle').textContent=p.title;
   document.getElementById('pmDesc').textContent=loc(p.desc);
   var _pid=document.getElementById('pmPid');
